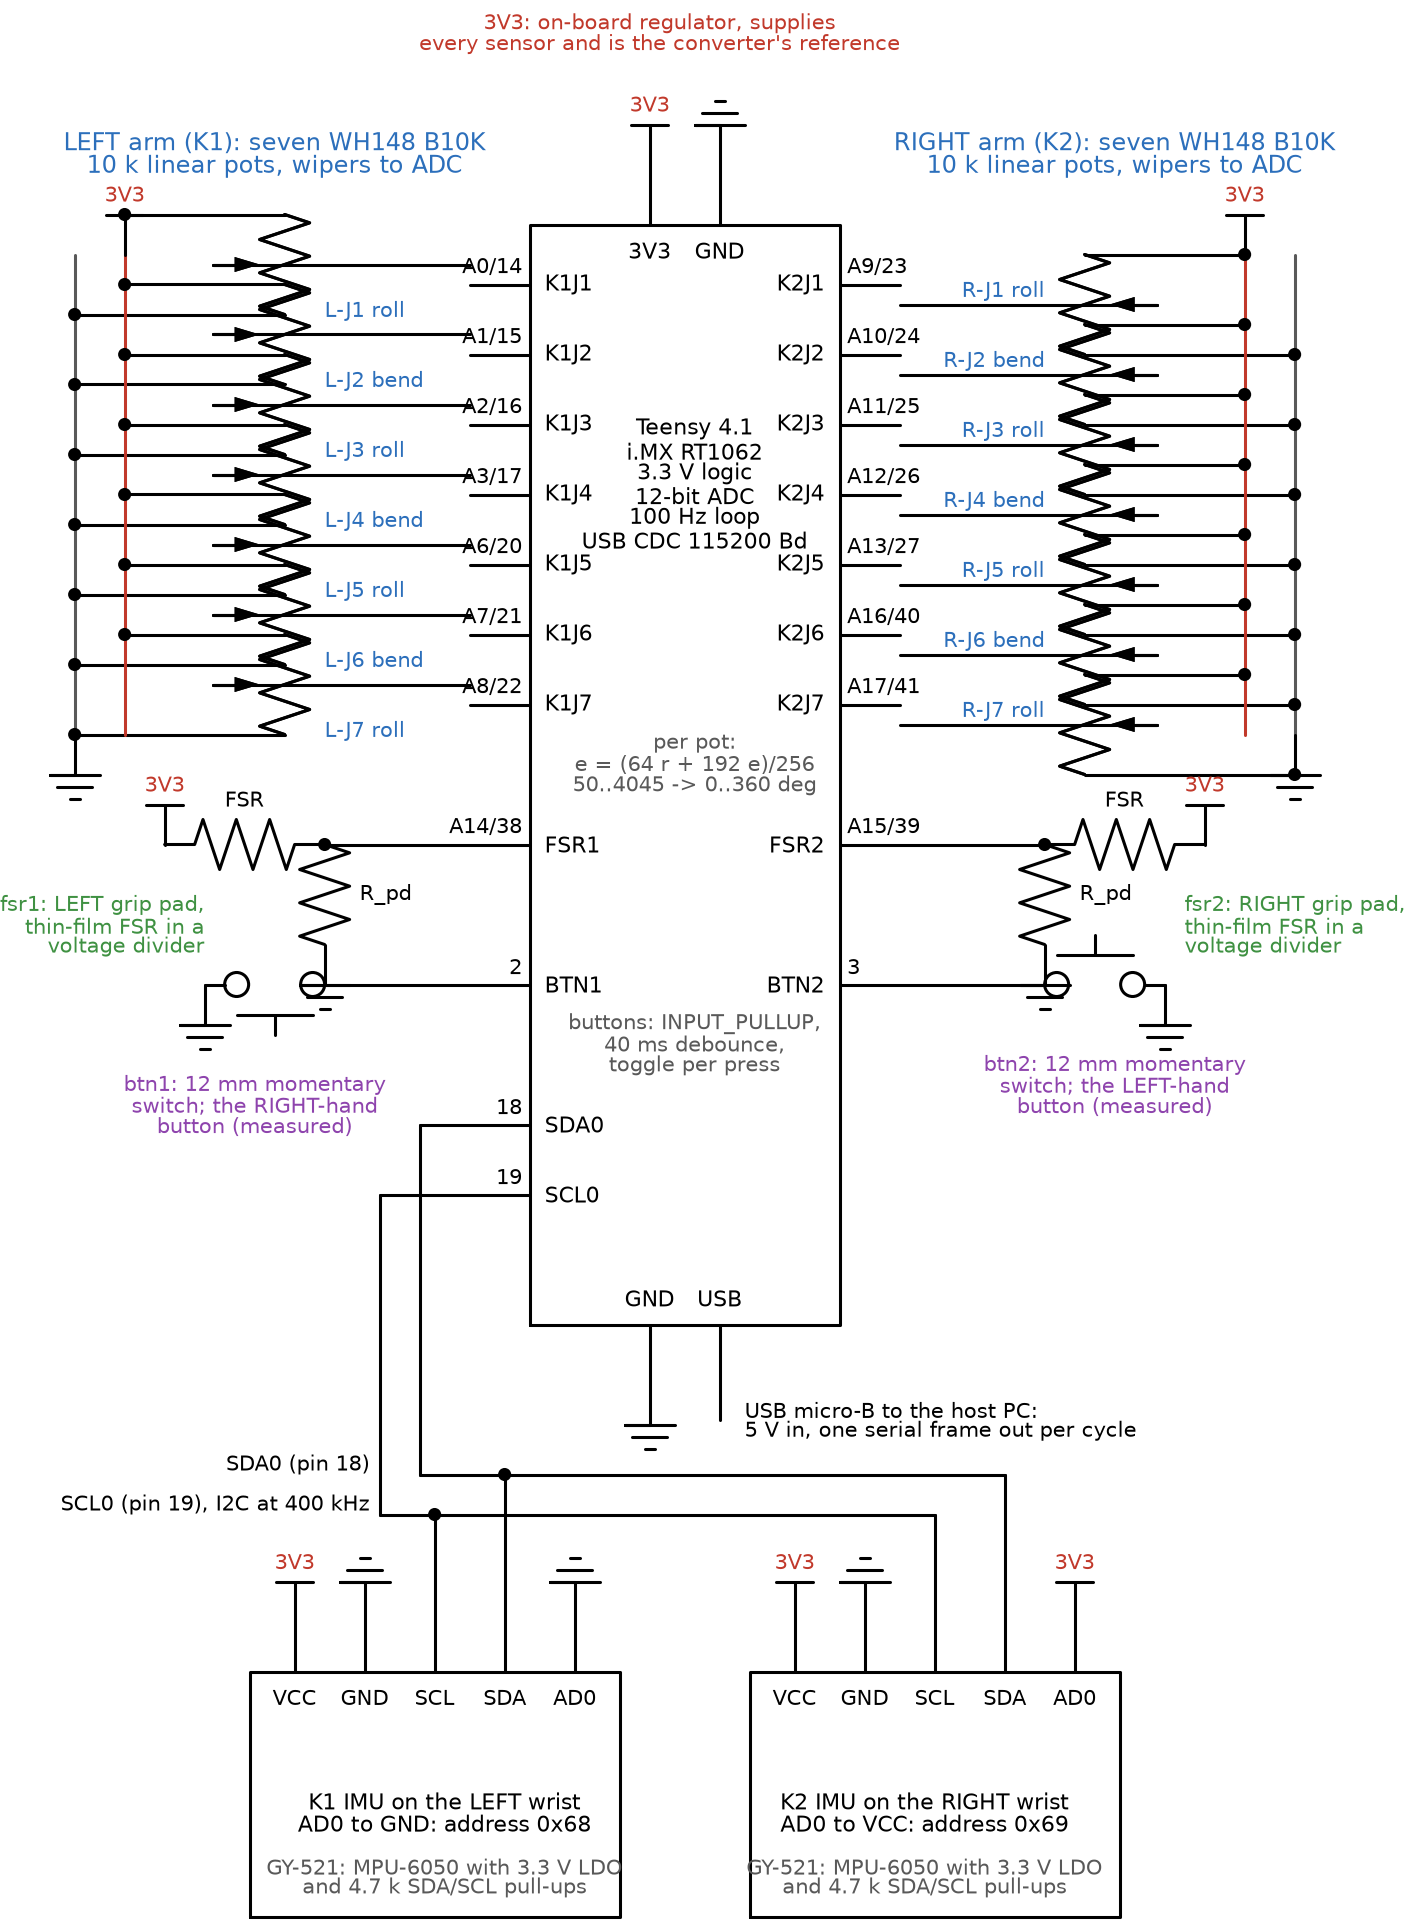
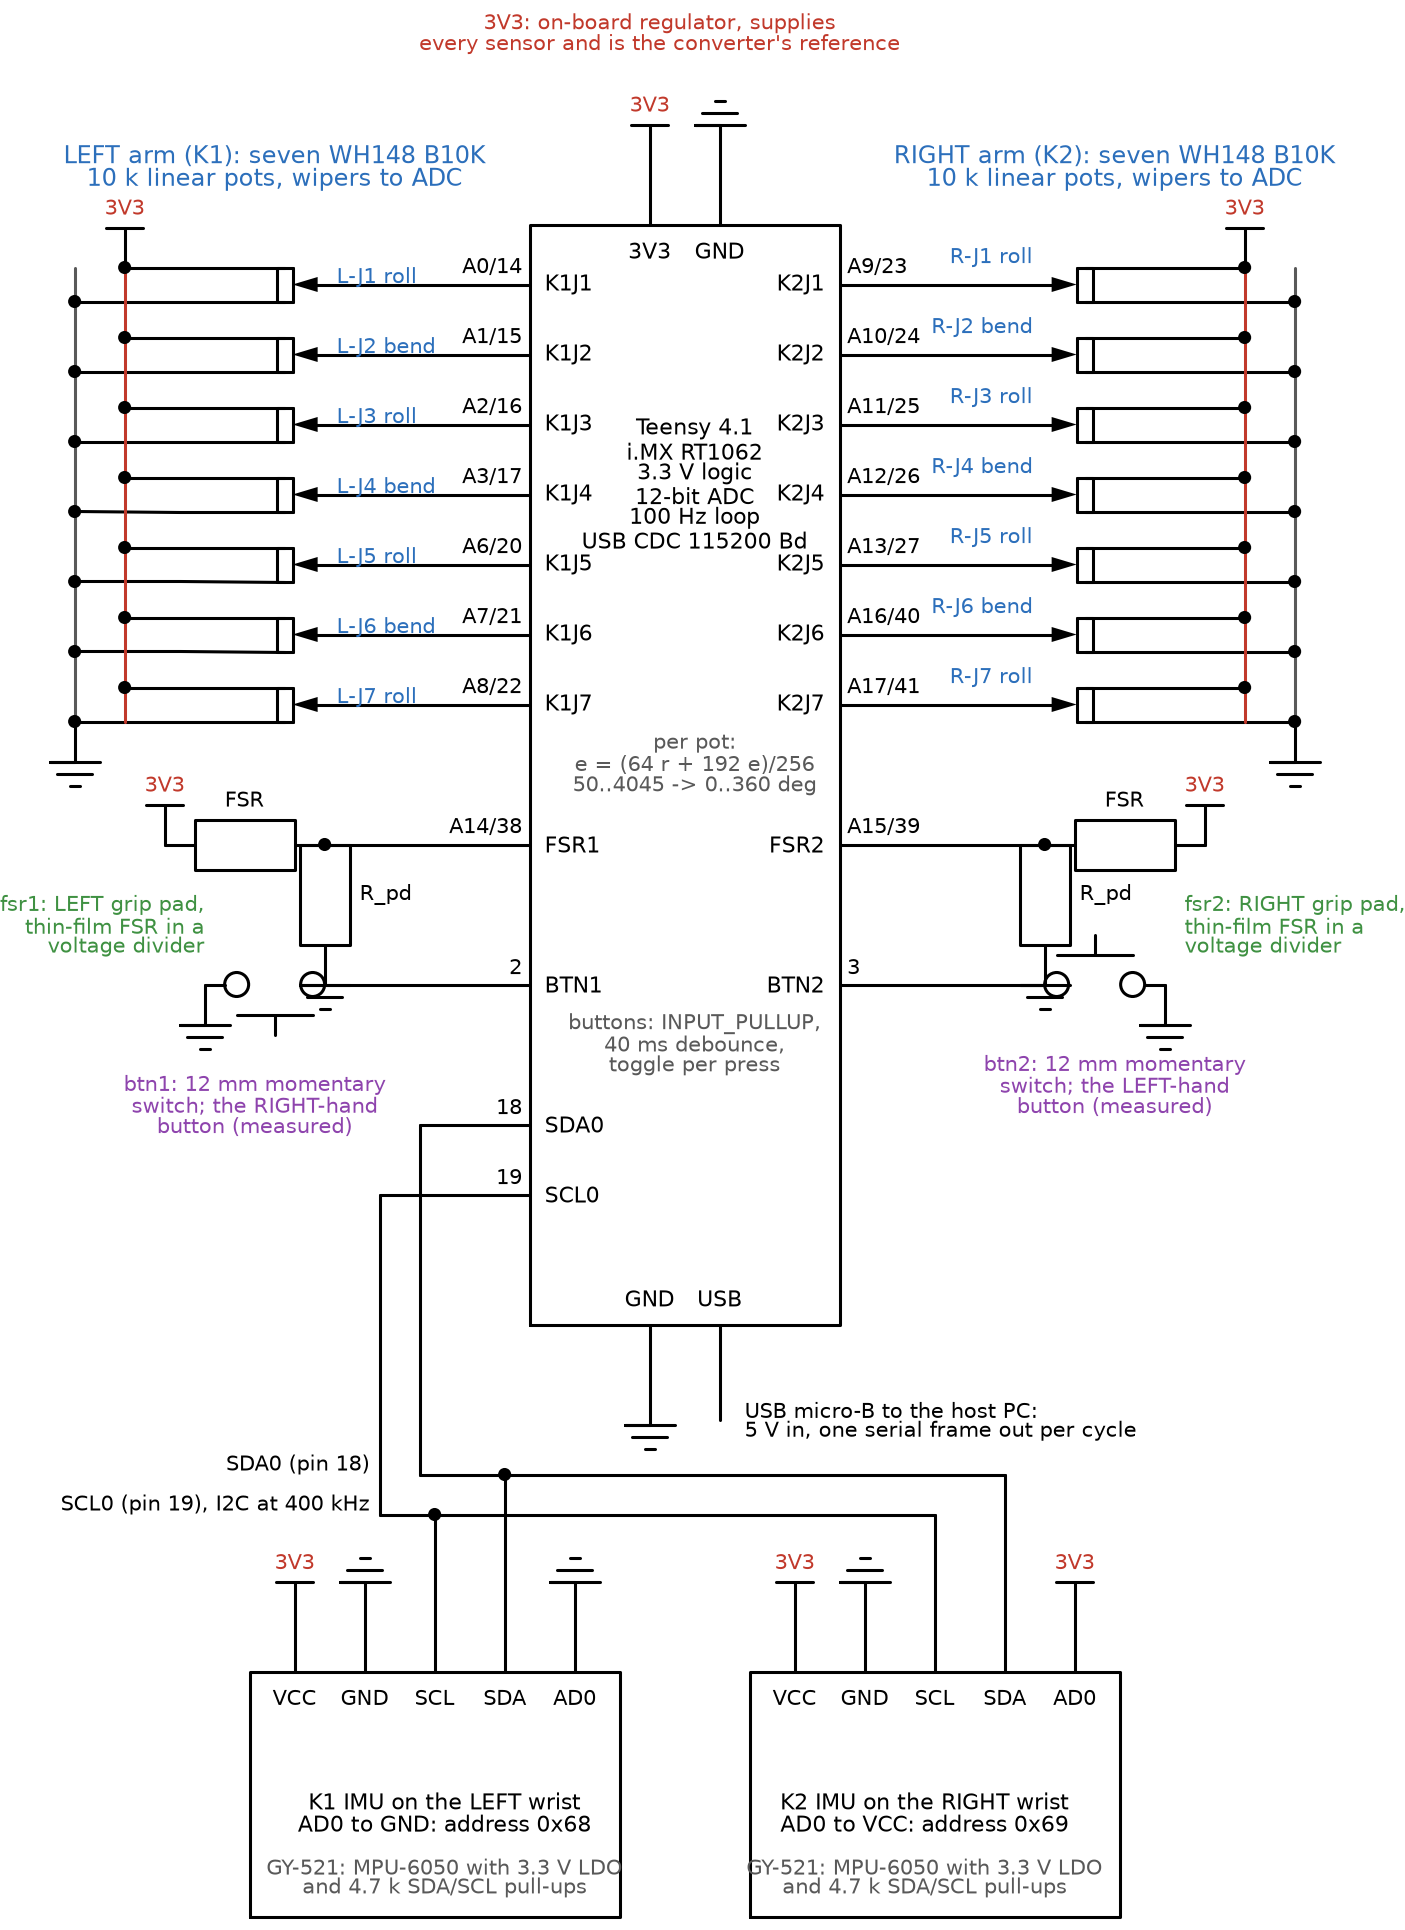
Master arm schematic: hand-drawn pot tracks so each is a separate, connected component

Changed region(s): [[0.6427, 0.0622, 0.9488, 0.4974], [0.0306, 0.0622, 0.3367, 0.4974], [0.0306, 0.3731, 0.0918, 0.4041]]

diff --git a/thesis_v3/figures/make_master_schematic.py b/thesis_v3/figures/make_master_schematic.py
@@ -77,22 +77,29 @@ def main():
             ys = [getattr(T, nm).y for nm in names]
             for k, nm in enumerate(names):
                 pin = getattr(T, nm)
-                if side == "left":      # .up() puts the wiper arrow on the right, toward the Teensy
-                    P = elm.Potentiometer().up().at((xpot, pin.y - 0.3)).length(0.6)
-                    top_pt, bot_pt = P.end, P.start
-                else:                   # .down() puts it on the left
-                    P = elm.Potentiometer().down().at((xpot, pin.y + 0.3)).length(0.6)
-                    top_pt, bot_pt = P.start, P.end
-                d += P
-                d += elm.Line().at(P.tap).tox(pin.x)
-                d += elm.Line().at(top_pt).tox(rail_v)
+                # the track: a plain resistor between the rails, shorter than the row pitch so
+                # neighbouring pots are visibly separate; the wiper: an arrow into the track
+                # from the Teensy side, its wire running straight to the pin
+                # the track drawn by hand as a small box, so its size is the row's and not the
+                # library's fixed resistor body (which overran the row pitch)
+                hb, wb = 0.17, 0.08
+                for (xa, ya, xb, yb) in ((xpot - wb, pin.y - hb, xpot + wb, pin.y - hb), (xpot + wb, pin.y - hb, xpot + wb, pin.y + hb),
+                                         (xpot + wb, pin.y + hb, xpot - wb, pin.y + hb), (xpot - wb, pin.y + hb, xpot - wb, pin.y - hb)):
+                    d += elm.Line().at((xa, ya)).to((xb, yb))
+                top_pt = type("P", (), {})(); bot_pt = type("P", (), {})()
+                top_pt.x, top_pt.y = xpot, pin.y + hb
+                bot_pt.x, bot_pt.y = xpot, pin.y - hb
+                xw = xpot - sgn * 0.55            # where the wiper wire meets the arrow
+                d += elm.Arrow(headwidth=0.16, headlength=0.14).at((xw, pin.y)).to((xpot - sgn * wb, pin.y))
+                d += elm.Line().at((xw, pin.y)).tox(pin.x)
+                d += elm.Line().at((top_pt.x, top_pt.y)).tox(rail_v)
                 d += elm.Dot(radius=0.05).at((rail_v, top_pt.y))
-                d += elm.Line().at(bot_pt).tox(rail_g)
+                d += elm.Line().at((bot_pt.x, bot_pt.y)).tox(rail_g)
                 d += elm.Dot(radius=0.05).at((rail_g, bot_pt.y))
-                d += elm.Label().at((xpot - sgn * 0.5, pin.y - 0.06)).label(
+                d += elm.Label().at((xpot - sgn * 0.62, pin.y + 0.07)).label(
                     "%s-%s" % (("L" if side == "left" else "R"), JOINT[k]), fontsize=F_SMALL, ofst=0,
-                    halign="left" if side == "left" else "right", valign="top", color=BLUE)
-            top, bot = max(ys) + 0.3, min(ys) - 0.3
+                    halign="left" if side == "left" else "right", valign="bottom", color=BLUE)
+            top, bot = max(ys) + 0.17, min(ys) - 0.17
             d += elm.Line().at((rail_v, top)).toy(bot).color(RED)
             d += elm.Vdd().theta(0).at((rail_v, top)).label("3V3", fontsize=F_SMALL, color=RED)
             d += elm.Line().at((rail_g, top)).toy(bot).color(GREY)
@@ -116,11 +123,11 @@ def main():
             sgn = -1 if side == "left" else 1
             xsup = xnode + sgn * 1.6
             d += elm.Vdd().theta(0).at((xsup, pin.y)).label("3V3", fontsize=F_SMALL, color=RED)
-            F = elm.Resistor().at((xsup, pin.y)).tox(xnode).label("FSR", loc="top", fontsize=F_SMALL)
+            F = elm.ResistorIEC().at((xsup, pin.y)).tox(xnode).label("FSR", loc="top", fontsize=F_SMALL)
             d += F
             d += elm.Dot(radius=0.05).at((xnode, pin.y))
             d += elm.Line().at((xnode, pin.y)).tox(pin.x)
-            R = elm.Resistor().at((xnode, pin.y)).down().length(0.9).label("R_pd", loc="bottom", fontsize=F_SMALL)
+            R = elm.ResistorIEC().at((xnode, pin.y)).down().length(0.9).label("R_pd", loc="bottom", fontsize=F_SMALL)
             d += R
             d += elm.Ground().theta(0).at(R.end)
             d += elm.Label().at((xsup - sgn * 0.3, pin.y - 0.4)).label(label, fontsize=F_SMALL, valign="top", color=GREEN, ofst=0,
